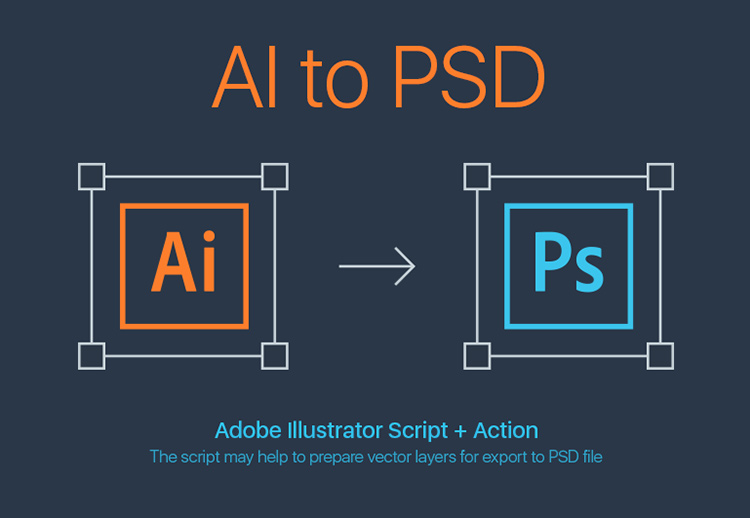
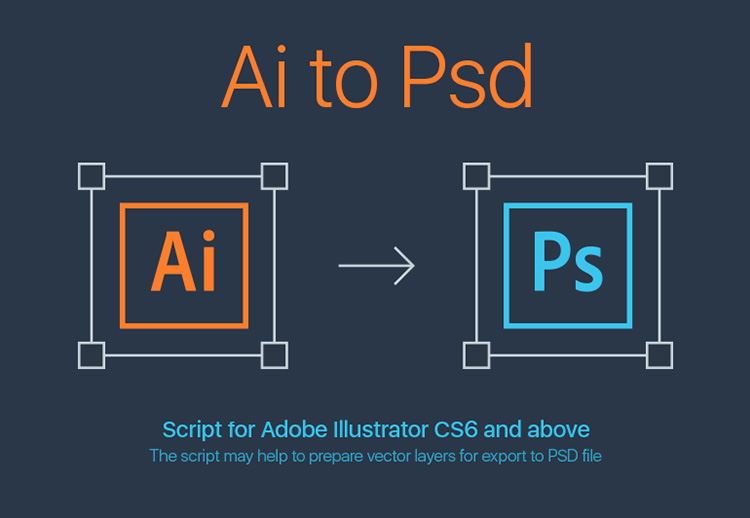
upd 2.0

diff --git a/ai-to-psd.jsx b/ai-to-psd.jsx
@@ -1,35 +1,82 @@
 /*****************************************************************************************
-* Ai-to-Psd.jsx for Adobe Illustrator
+* Ai-to-Psd.jsx for Adobe Illustrator CS6 and above
 *
 * This script may help to prepare vector layers to export from AI to PSD file. 
 * After usage of the script you should export the file manually via File > Export (.psd)
 *
-* Authors:
-* Serg Osokin, graphic designer 
-* http://sergosokin.ru
-* Radmir Kashaev, software developer
-*
 * NOTICE:
-* Tested with Adobe Illustrator CS6, CC (Win/Mac).
+* Tested with Adobe Illustrator CS6 (Win), CC 2017 (Mac).
 * This script is provided "as is" without warranty of any kind.
+* Free to use, not for sale.
+*
 * Released under the MIT license.
 * http://opensource.org/licenses/mit-license.php
 * 
 * Copyright (C) 2017 Serg Osokin & Radmir Kashaev, All Rights Reserved.
+* http://sergosokin.ru
+* https://github.com/rkashaev
 *
 * Versions:
 *  1.0 Initial version
 *  1.1 After start the script unlocks visible layers & objects
 *  1.2 Fixed a performance issue
 *  1.3 Fixed a Overprint issue
+*  2.0 The script doesn't need to load the helper Action file.
 *
 ******************************************************************************************/
 
+#target illustrator
+
 var GRADIENT = "GradientColor";
 var PATTERN = "PatternColor";
+var actionPath = Folder.myDocuments;
+var actionStr =  
+    '''
+    /version 3
+    /name [ 9
+        41692d746f2d507364
+    ]
+    /isOpen 1
+    /actionCount 1
+    /action-1 {
+        /name [ 14
+            4d616b652d436f6d705368617065
+        ]
+        /keyIndex 0
+        /colorIndex 0
+        /isOpen 1
+        /eventCount 1
+        /event-1 {
+            /useRulersIn1stQuadrant 0
+            /internalName (ai_make_compound_shape)
+            /localizedName [ 19
+                4d616b6520436f6d706f756e64205368617065
+            ]
+            /isOpen 0
+            /isOn 1
+            /hasDialog 0
+            /parameterCount 1
+            /parameter-1 {
+                /key 1835101029
+                /showInPalette 4294967295
+                /type (integer)
+                /value 0
+            }
+        }
+    }
+    ''';
 
 function start() {
-    if (documents.length == 0) return;
+    if (documents.length == 0) {
+        alert('There are no documents open.');
+        return;
+    }
+    if ((app.version.substr(0, 2) * 1) < 16) {
+        alert('Sorry, the Ai-to-Psd script only works in versions CS6 (v16) and above.\n' + 'You are using Adobe Illustrator v' + app.version.substr(0, 2));
+        return;
+    }
+
+    createAction(actionStr, 'Ai-to-Psd');
 
     var layers = activeDocument.layers;
     // unlock all visible layers
@@ -79,11 +126,21 @@ function start() {
         deselect();
         app.redraw();
     }
+    app.unloadAction('Ai-to-Psd', '');
     alert('Done. Check your document\n' + 'Export PSD: File \u2192 Export \u2192 Export as...\n' + 'Options: Write Layers, turn on all checkbox');
 }
 
 function deselect() {
     activeDocument.selection = null;
+}
+
+function createAction(str, set) { 
+    var f = new File(actionPath + "/" + set + '.aia'); 
+    f.open('w'); 
+    f.write(str); 
+    f.close(); 
+    app.loadAction(f); 
+    f.remove(); 
 }
 
 function getItemForGroup(pathItem) {

diff --git a/readme.md b/readme.md
@@ -1,5 +1,7 @@
-# Ai-to-Psd v1.3
-**New update v1.3: fixed a Overprint Fill issue.** With the option enabled, the object was rasterized when exporting
+# Ai-to-Psd v2.0
+### News
+Version 2.0 of the script doesn't need to load the helper Action file.  
+If you have any of previous versions, you may delete 'Ai-to-Psd' set from `Windows → Actions` right after upgrade.
 
 ![ai-to-psd](images/cover.jpg)
 
@@ -12,11 +14,10 @@ All **solid filled** objects remain vector in the PSD.
 
 1. [Download archive] and unzip
 2. Place `ai-to-psd.jsx` in the Illustrator Scripts folder:
-	- OS X: `/Applications/Adobe Illustrator [version]/Presets.localized/en_GB/Scripts`
-	- Windows (32 bit): `C:\Program Files (x86)\Adobe\Adobe Illustrator [version]\Presets\en_GB\Scripts\`
-	- Windows (64 bit): `C:\Program Files\Adobe\Adobe Illustrator [version] (64 Bit)\Presets\en_GB\Scripts\`
-3. Load `Ai-to-Psd.aia` action file by `Window → Actions → Load Actions… `
-5. Restart Illustrator
+	- OS X: `/Applications/Adobe Illustrator [vers.]/Presets.localized/en_GB/Scripts`
+	- Windows (32 bit): `C:\Program Files (x86)\Adobe\Adobe Illustrator [vers.]\Presets\en_GB\Scripts\`
+	- Windows (64 bit): `C:\Program Files\Adobe\Adobe Illustrator [vers.] (64 Bit)\Presets\en_GB\Scripts\`
+3. Restart Illustrator
 
 [Download archive]: https://github.com/creold/ai-to-psd/archive/master.zip 
 
@@ -37,15 +38,16 @@ If you have a large group of small objects, e.g. hair brush draws, fur or outlin
 
 ## System Requirements
 
-Should work with Adobe Illustrator CS6 and higher.   
+Should work with Adobe Illustrator CS6 and above.   
 The script has been tested on Illustrator CS6 (Win), Illustrator CC 2017 (OS X El Capitan).
 
 ## Release notes 
 
 | Version | Notes |
 | --- | --- |
-| **v1.3** | Fixed a Overprint issue. |
-| **v1.2** | Fixed a performance issue. |
+| **v2.0** | The script doesn't need to load the helper Action file. |
+| **v1.3** | Fixed Overprint issue. |
+| **v1.2** | Improved preformance. |
 | **v1.1** | The script unlocks visible layers & objects before and the do the rest. |
 | **v1.0** | Initial Version. | 
 
